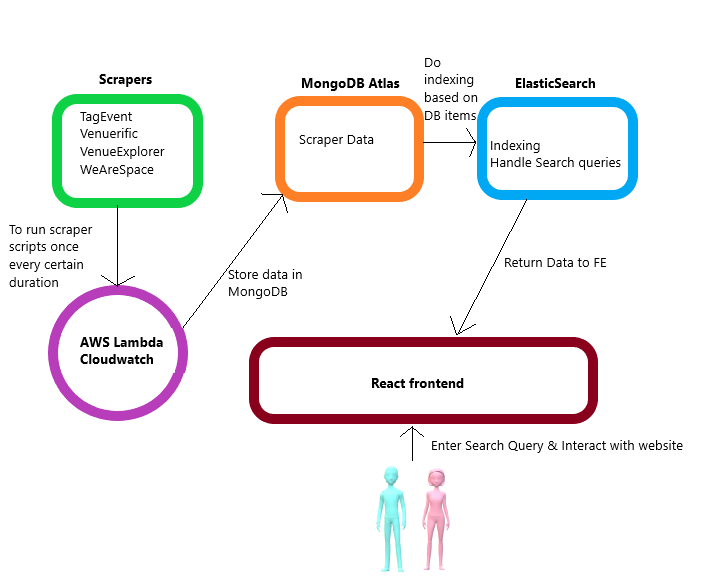
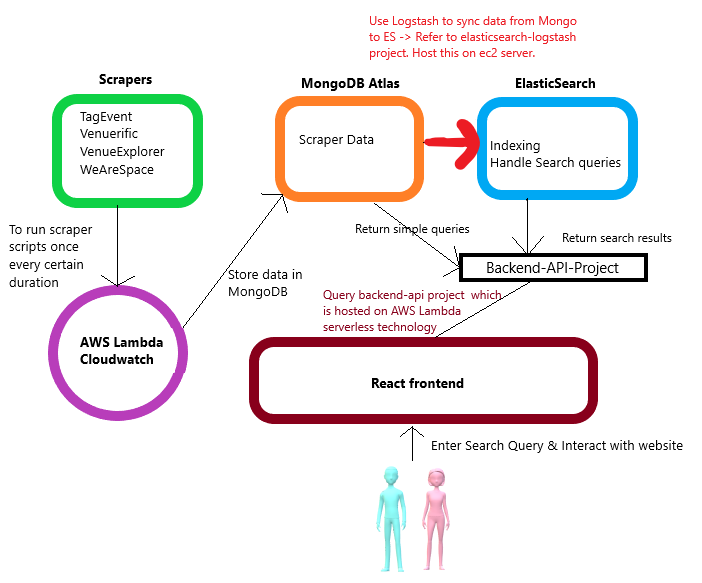
Update architecture diag

Changed region(s): [[0.4487, 0.4014, 0.9573, 0.5866], [0.5085, 0.0309, 0.8376, 0.3087], [0.5085, 0.3705, 0.6581, 0.4014]]

diff --git a/README.md b/README.md
@@ -15,14 +15,9 @@ https://react-icons.github.io/react-icons/
 #### CSS
 
 https://react.semantic-ui.com/
-<<<<<<< Updated upstream
-||||||| merged common ancestors
 
 ## Understanding the architecture of the cherryPicker project
 
 * Note: Elasticsearch is hosted on AWS as well.
 
 ![Architecture](src/images/CherryPicker_Architecture.png)
-=======
-
->>>>>>> Stashed changes
